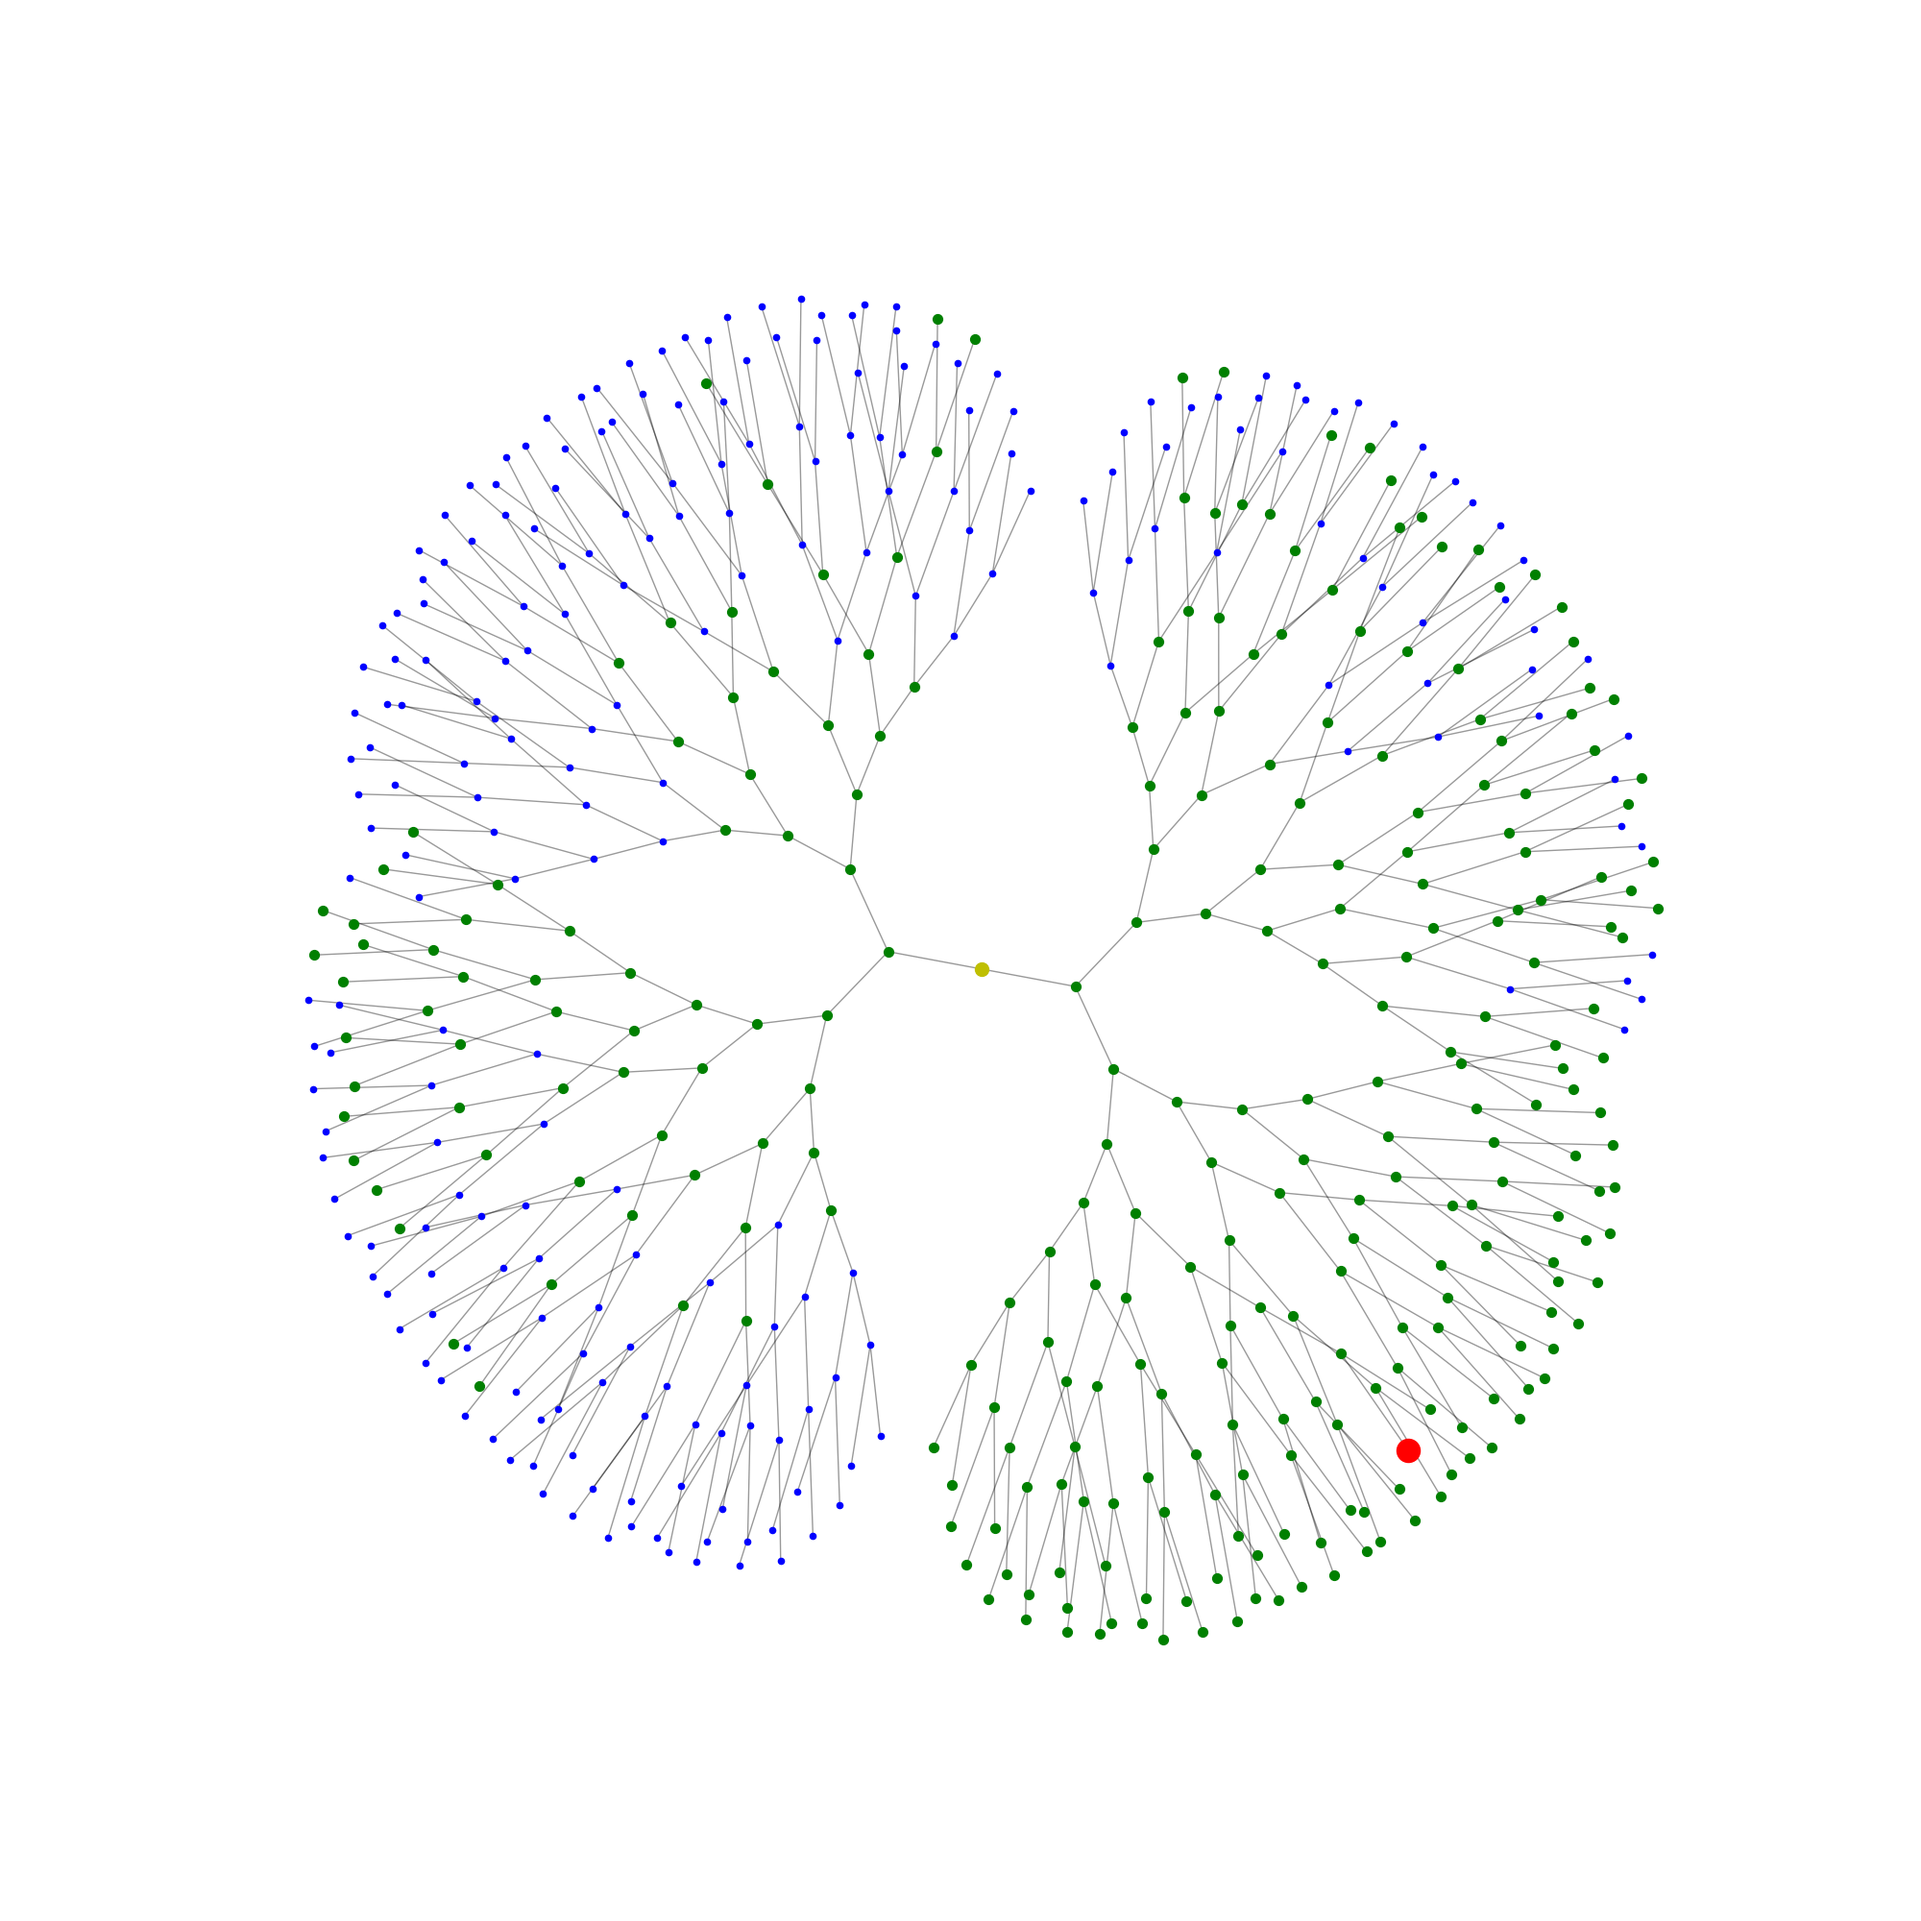
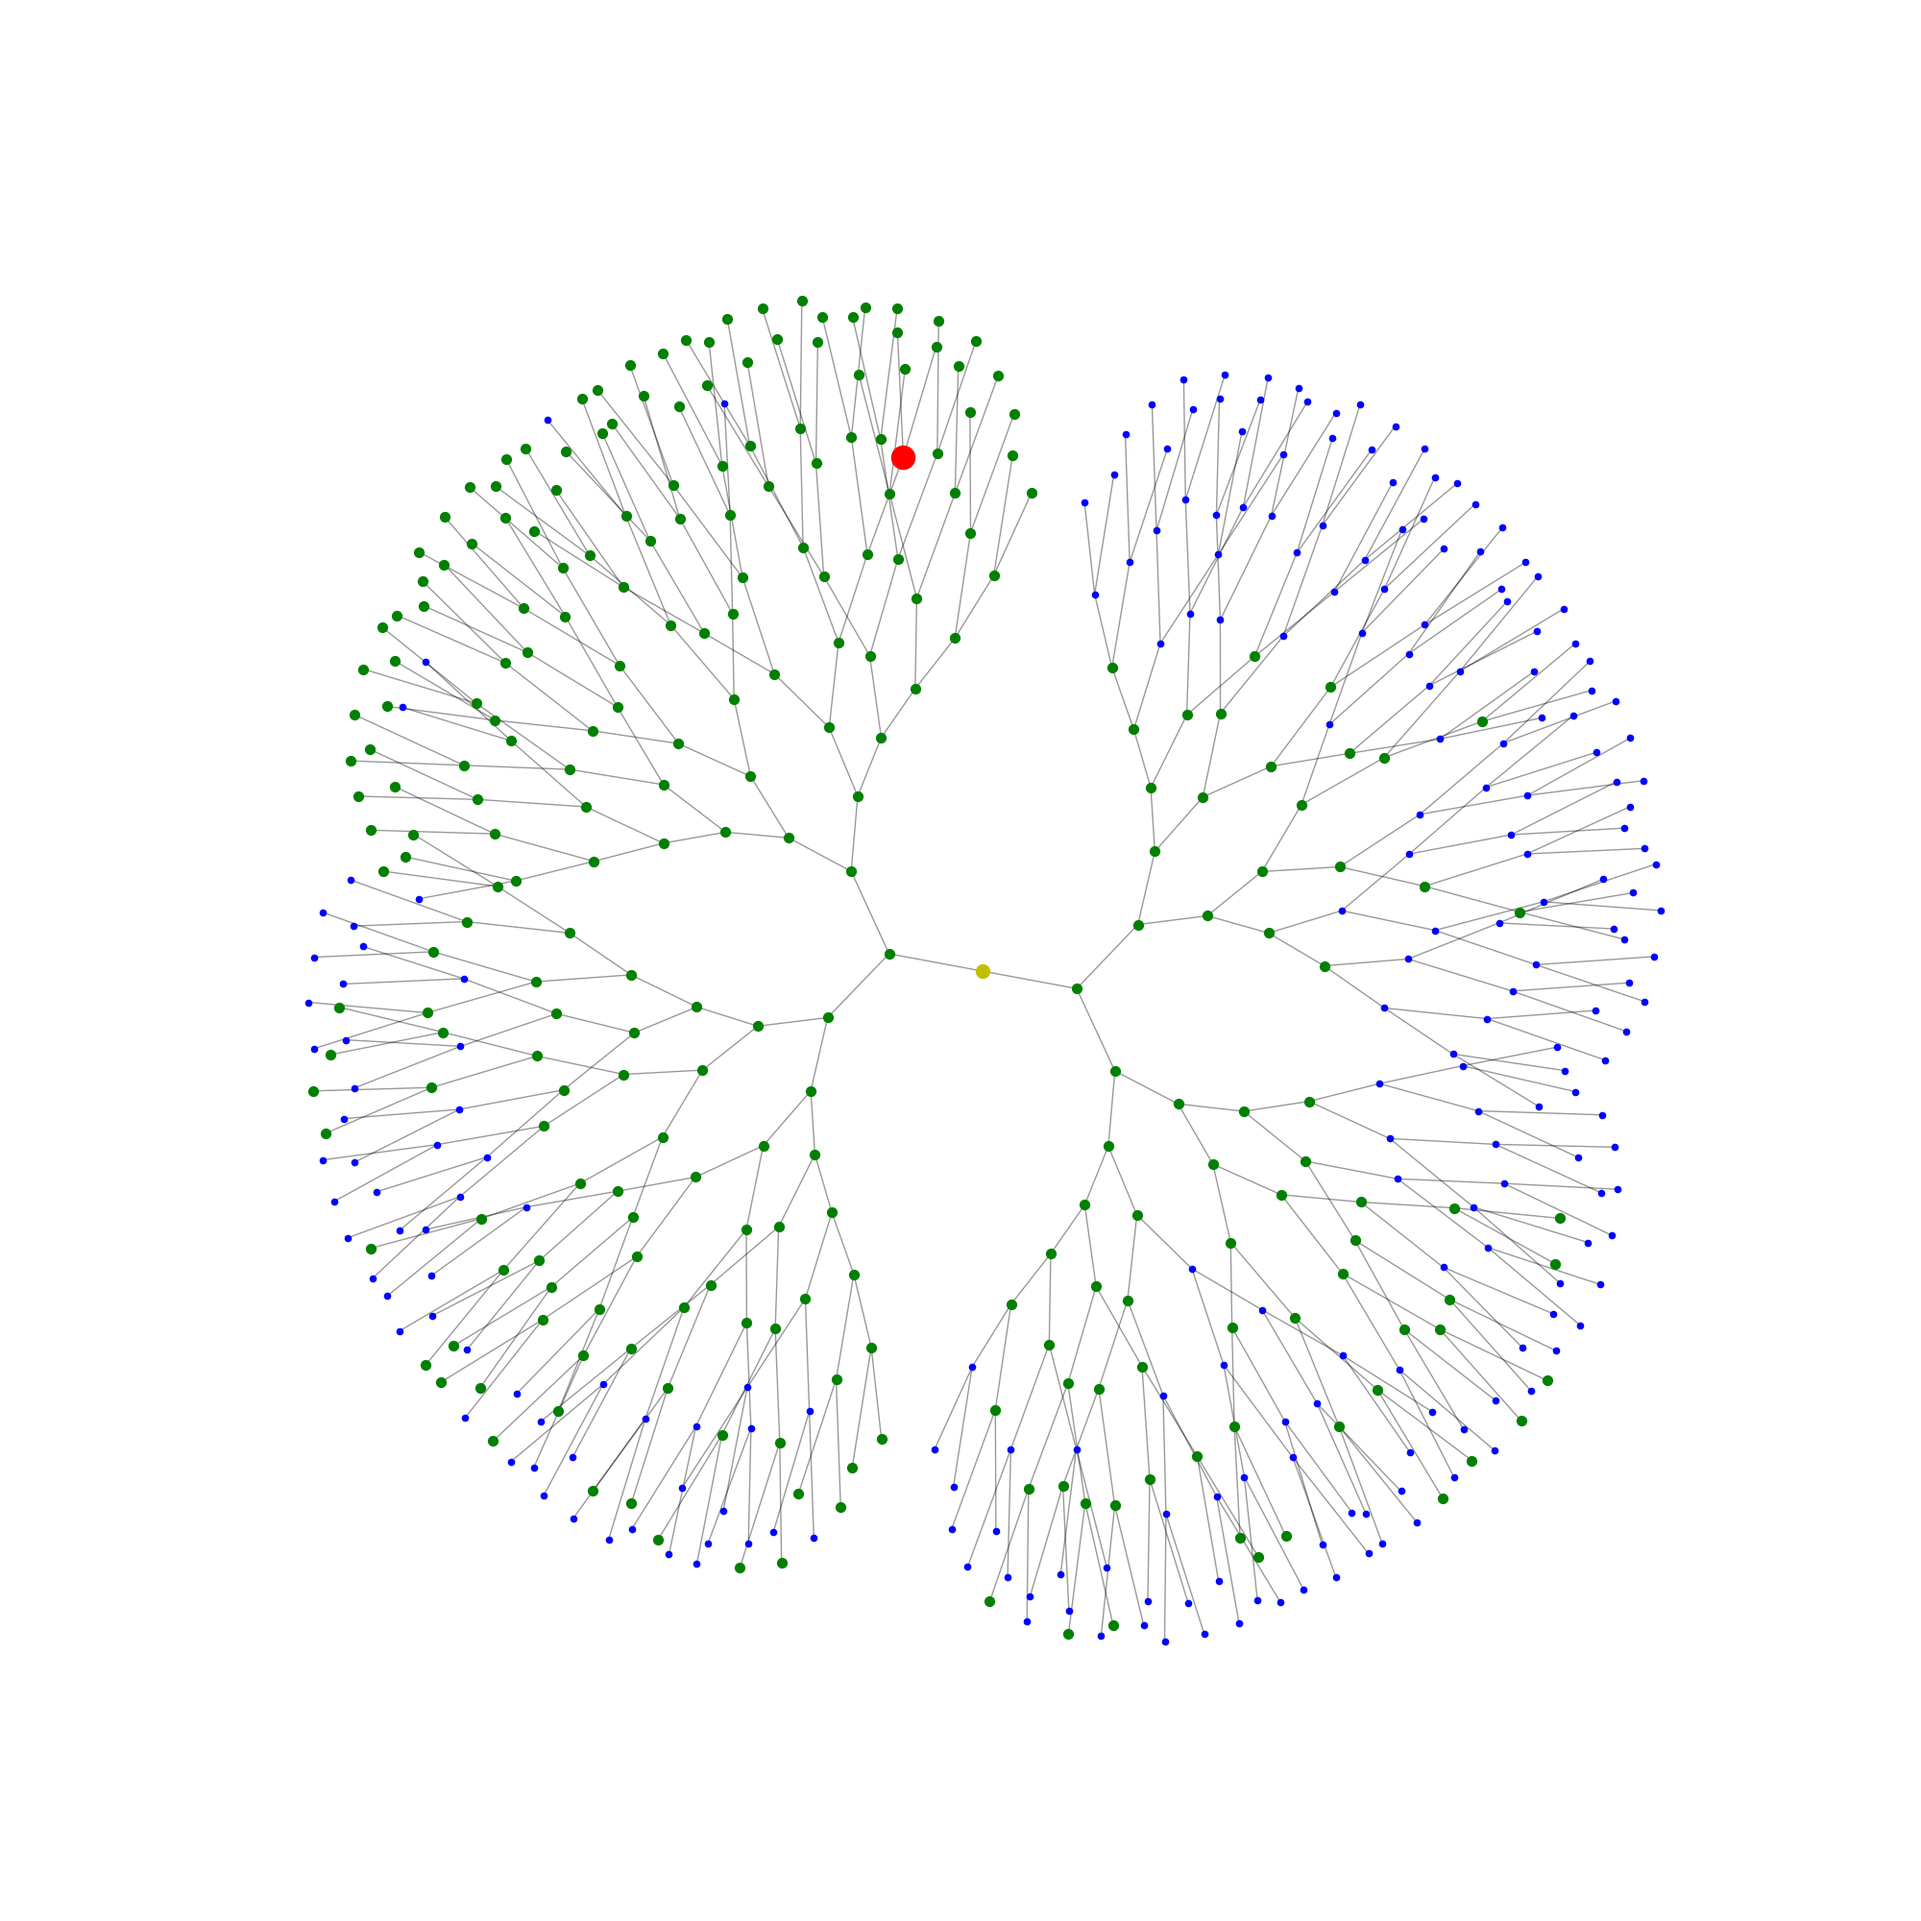
coverage

diff --git a/jarden_center/main_code/single-multiple-source/change_world/Conditional_experiment/single_source_detection/single_Source_detection.py b/jarden_center/main_code/single-multiple-source/change_world/Conditional_experiment/single_source_detection/single_Source_detection.py
@@ -415,10 +415,69 @@ class Single_source:
     2 然后对那个源点进行BFS树构建
     3 单源定位。
     '''
-    def  coverage_BFS_single_source(self, infectG, subInfectG):
+    def  coverage_BFS_single_source(self, infectG, subInfectG,source_ture):
+        # 进行所有点有向树构建，再进行层次遍历。针对每一层都进行传播点/全部的比例计算。
+
+        node_every_ratio = []
+        for node_every in list(subInfectG.nodes()):
+            #进行BFS树构造，
+            tree=nx.bfs_tree(infectG, source=node_every)
+            #进行层次遍历。返回每一层顶点。
+            BFS_nodes=commons.BFS_nodes(tree,node_every,infectG)
+            ratio_all =0
+            for layer_node in BFS_nodes:
+                infect_node_len=len([x for x in layer_node if infectG.node[x]['SI']==2])
+                # print('infect_node_len',infect_node_len)
+                infect_node_not = len([x for x in layer_node if infectG.node[x]['SI'] == 1])
+                # print('infect_node_not', infect_node_not)
+                infect_ratio = infect_node_len/len(layer_node) #感染点的比例
+                ratio_all +=infect_ratio
+            ratio_average = ratio_all / len(BFS_nodes)
+            node_every_ratio.append([node_every,ratio_average])
+
+        node_every_ratio_sort = sorted(node_every_ratio, key=lambda x : x[1], reverse=True)
+        print(node_every_ratio_sort)
 
 
-        pass
+        #以第一个点进行BFS树构建，然后单源定位。
+
+        subinfectG = nx.bfs_tree(subInfectG, source=node_every_ratio_sort[0][0])
+        # who_infected =  [[] for i in range(infectG.number_of_nodes())]
+        # 找出最大的id数目。
+        maxs = 0
+        infect_node = []
+        for node_index in list(infectG.nodes):
+            if node_index > maxs:
+                maxs = node_index
+        print('maxs', maxs)
+        for node in list(subinfectG.nodes()):
+            infect_node.append(node)
+        who_infected = [[] for i in range(maxs + 1)]
+
+        i = 0
+        for node_temp in infect_node:
+            neighbour_list = list(nx.neighbors(subinfectG, node_temp))
+            neighbour_list_index = []
+            for neighbour in neighbour_list:
+                neighbour_list_index.append(infect_node.index(neighbour))
+            who_infected[i] = neighbour_list_index
+            i += 1
+
+        print('infect_node', infect_node)
+        print('who_infected', who_infected)
+        rumor_center_object = rumor_centrality.rumor_center()
+
+        rumor_center, center = rumor_center_object.rumor_centrality(who_infected)
+
+        print('rumor_center', rumor_center)
+        print('center', center)
+
+        return [infect_node[rumor_center]]
+
+
+
+
+
 
 
 
@@ -475,8 +534,13 @@ class Single_source:
         # result_node = self.rumor_center(infectG,subinfectG,source_list[0])
 
 
-        # #’‘ 乔丹中心性
-        result_node = self.jarden_center(infectG,subinfectG,source_list[0])
+              # # #’‘ 乔丹中心性
+        # result_node = self.jarden_center(infectG,subinfectG,source_list[0])
+
+
+        #覆盖率加我们的操作
+        result_node = self.coverage_BFS_single_source(infectG,subinfectG,source_list[0])
+
 
         print('真实源是',source_list[0])
         print('预测源是',result_node[0])

diff --git a/jarden_center/main_code/single-multiple-source/change_world/common/commons.py b/jarden_center/main_code/single-multiple-source/change_world/common/commons.py
@@ -431,7 +431,6 @@ def   propagation1(G,SourceList,number =1):
 
 '''
 def   propagation_IC(G,SourceList,number =1):
-
     y_list =[]
     G_temp = nx.Graph()
     G_temp = copy.deepcopy(G)
@@ -630,7 +629,36 @@ def   BFS_coverage(G,SourceList,number =1):
 
 
 
+'''
+1 BFS层次遍历，返回从某个点开始BFS层次节点，但是如果这一层没有被感染点。
+就不返回了
+2 
 
+
+'''
+
+
+def  BFS_nodes(tree,source,infectG):
+    queue = []
+    queue.append(source)
+    layer_node = []
+    layer_node.append([source])
+    while queue:
+        temp_layer_node = []
+        for i  in queue:
+            for neighbour in list(nx.neighbors(tree,i)):
+                if neighbour != i:
+                    temp_layer_node.append(neighbour)
+
+        #如果某一层的被感染点为0，就退出。不用再加了。
+        if len([x for x in temp_layer_node if infectG.node[x]['SI'] ==2]) == 0:
+            break
+        layer_node.append(temp_layer_node)
+        queue = temp_layer_node
+
+    print('layer_node_append',layer_node)
+    return layer_node
+    #BFS形成的层次遍历。
 
 
 

diff --git a/jarden_center/main_code/single-multiple-source/change_world/Conditional_experiment/plot_networkx/plot_main.py b/jarden_center/main_code/single-multiple-source/change_world/Conditional_experiment/plot_networkx/plot_main.py
@@ -124,7 +124,7 @@ max_sub_graph = commons.judge_data(initG)
 # source_list = product_sourceList(max_sub_graph, 2)
 source_list = commons.product_sourceList(max_sub_graph, 1)
 # print('两个节点的距离', nx.shortest_path_length(max_sub_graph, source=source_list[0], target=source_list[1]))
-infectG = commons.propagation1(max_sub_graph, source_list)
+infectG,trueT = commons.propagation1(max_sub_graph, source_list)
 subinfectG = commons.get_subGraph_true(infectG)  # 只取感染点，为2表示,真实的感染图。
 
 # '''''''# 2 分区，分区的太多了，我们看看那种好。'''
@@ -179,5 +179,5 @@ plot_G_node_color_PPT(initG,subinfectG,source_list,result_source_list)
 
 
 # plot_G(initG)
-
+#
 # plot_G_node_color(initG,[1])
